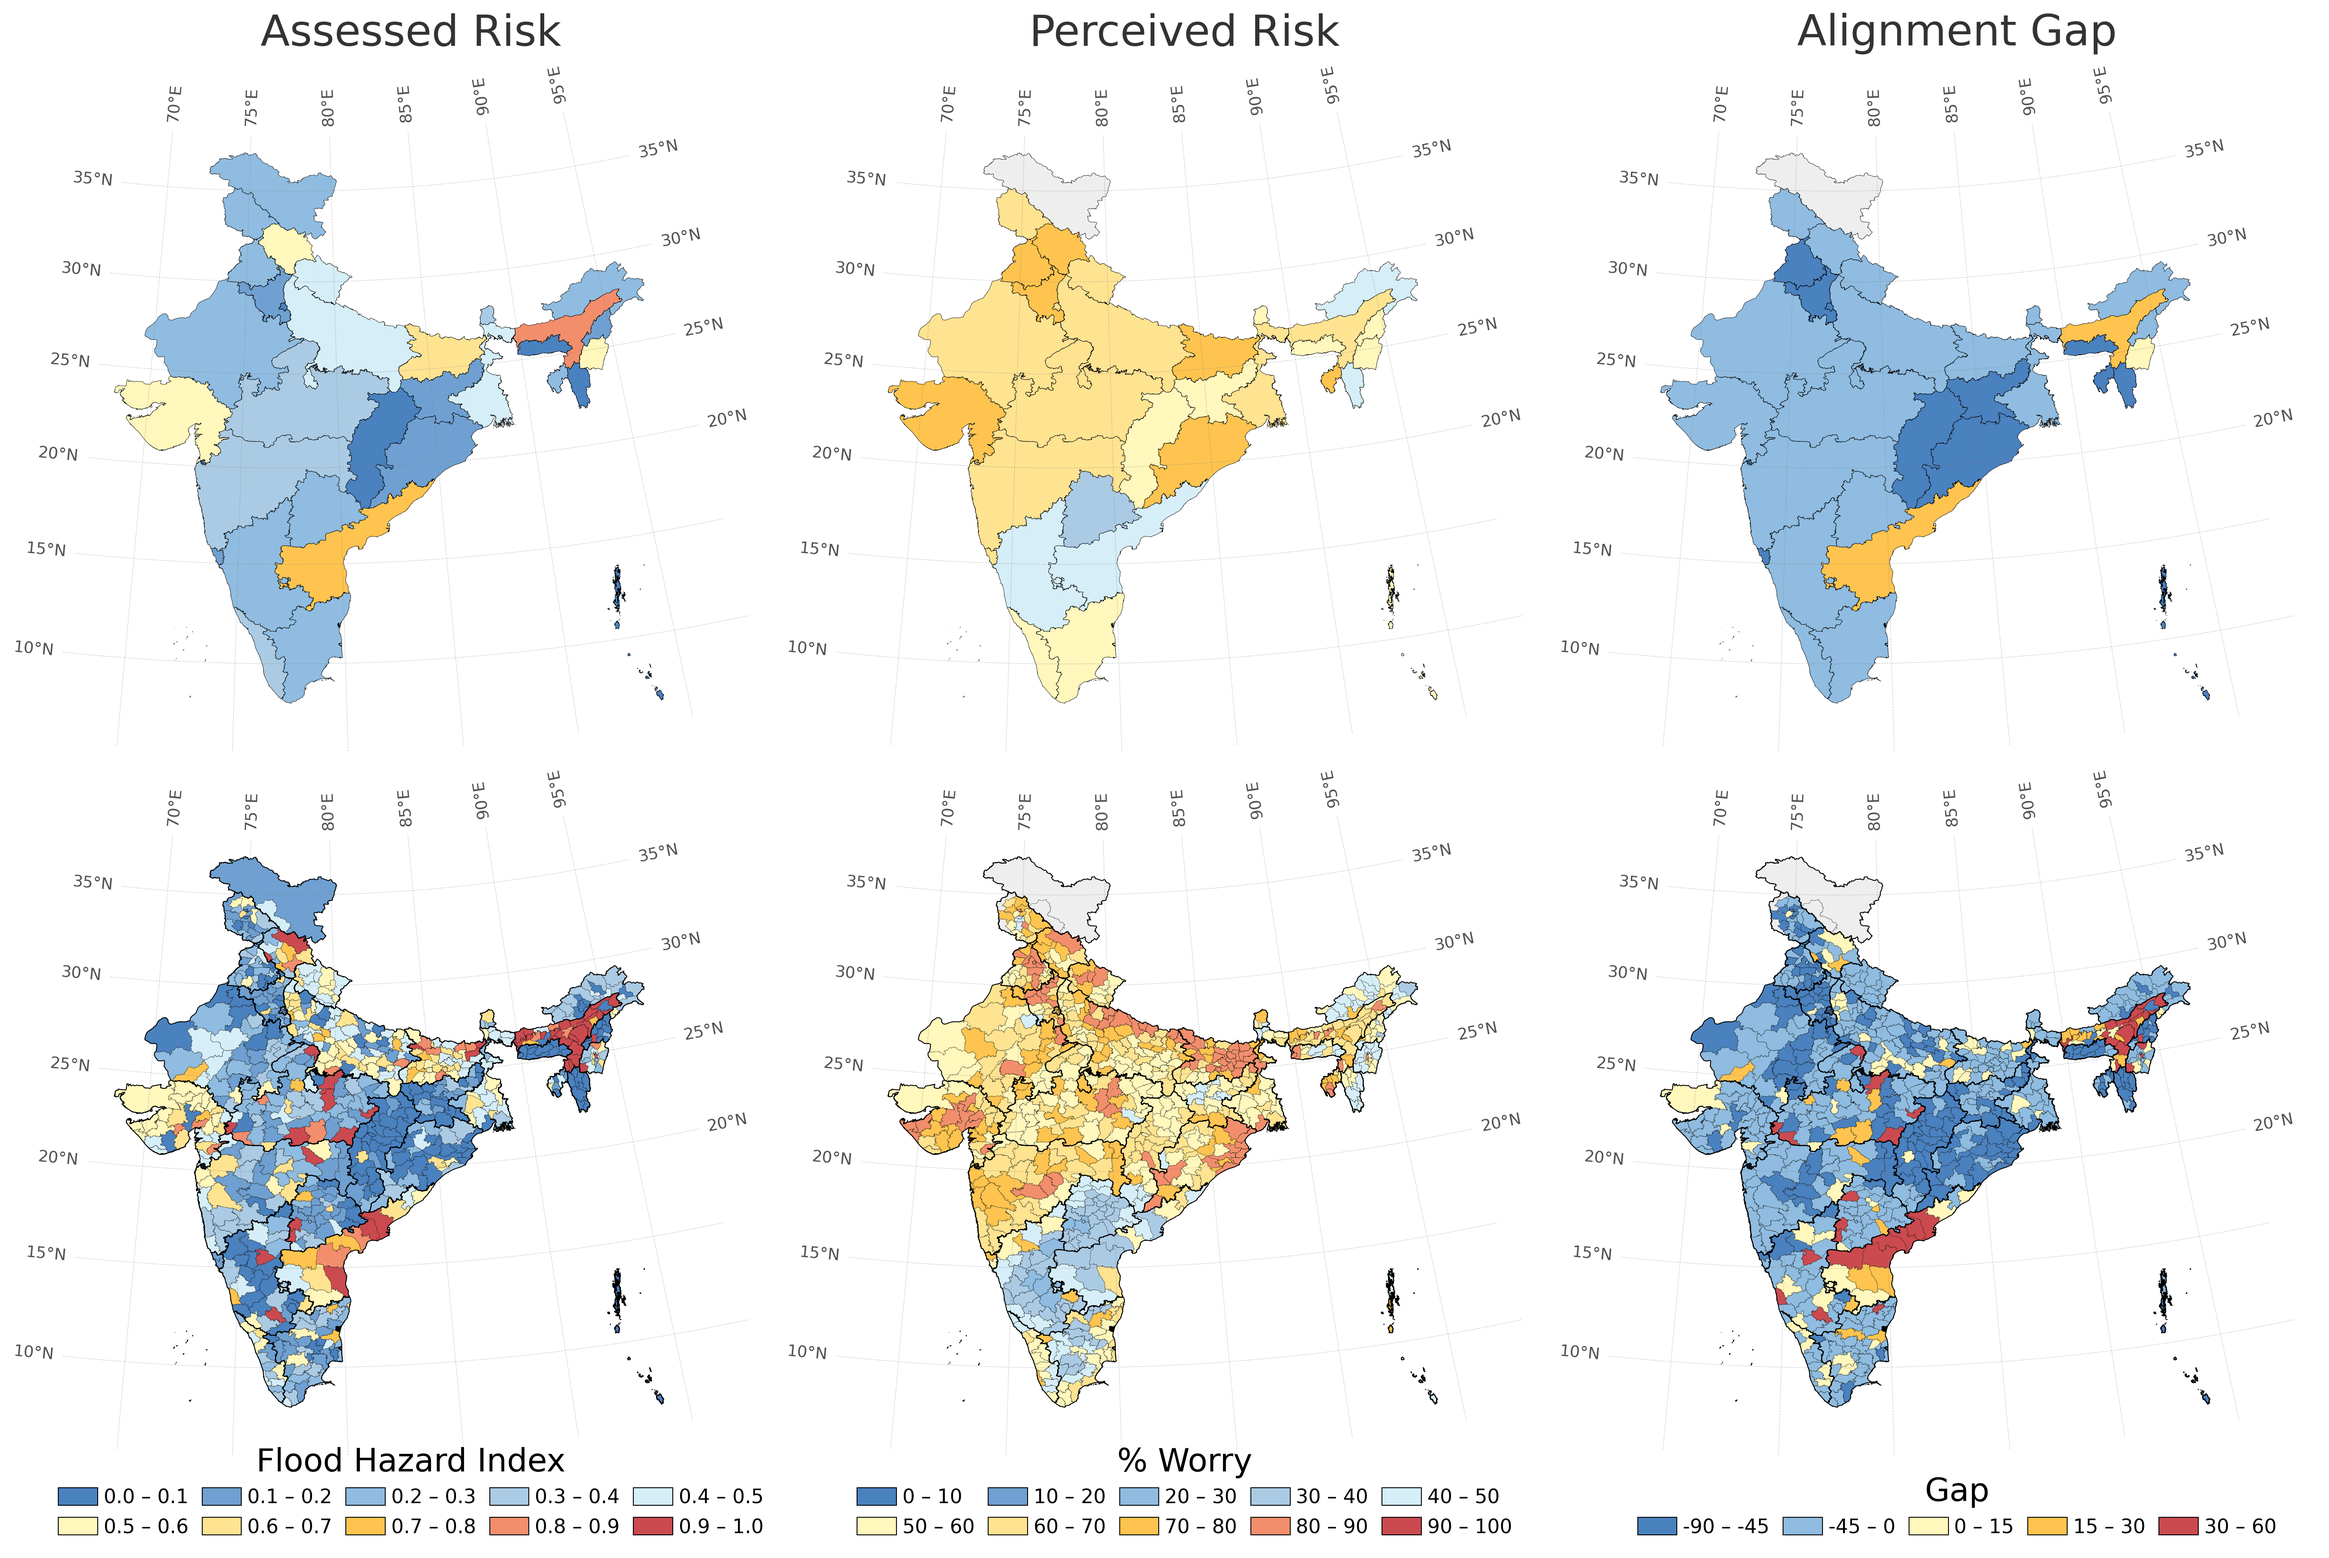
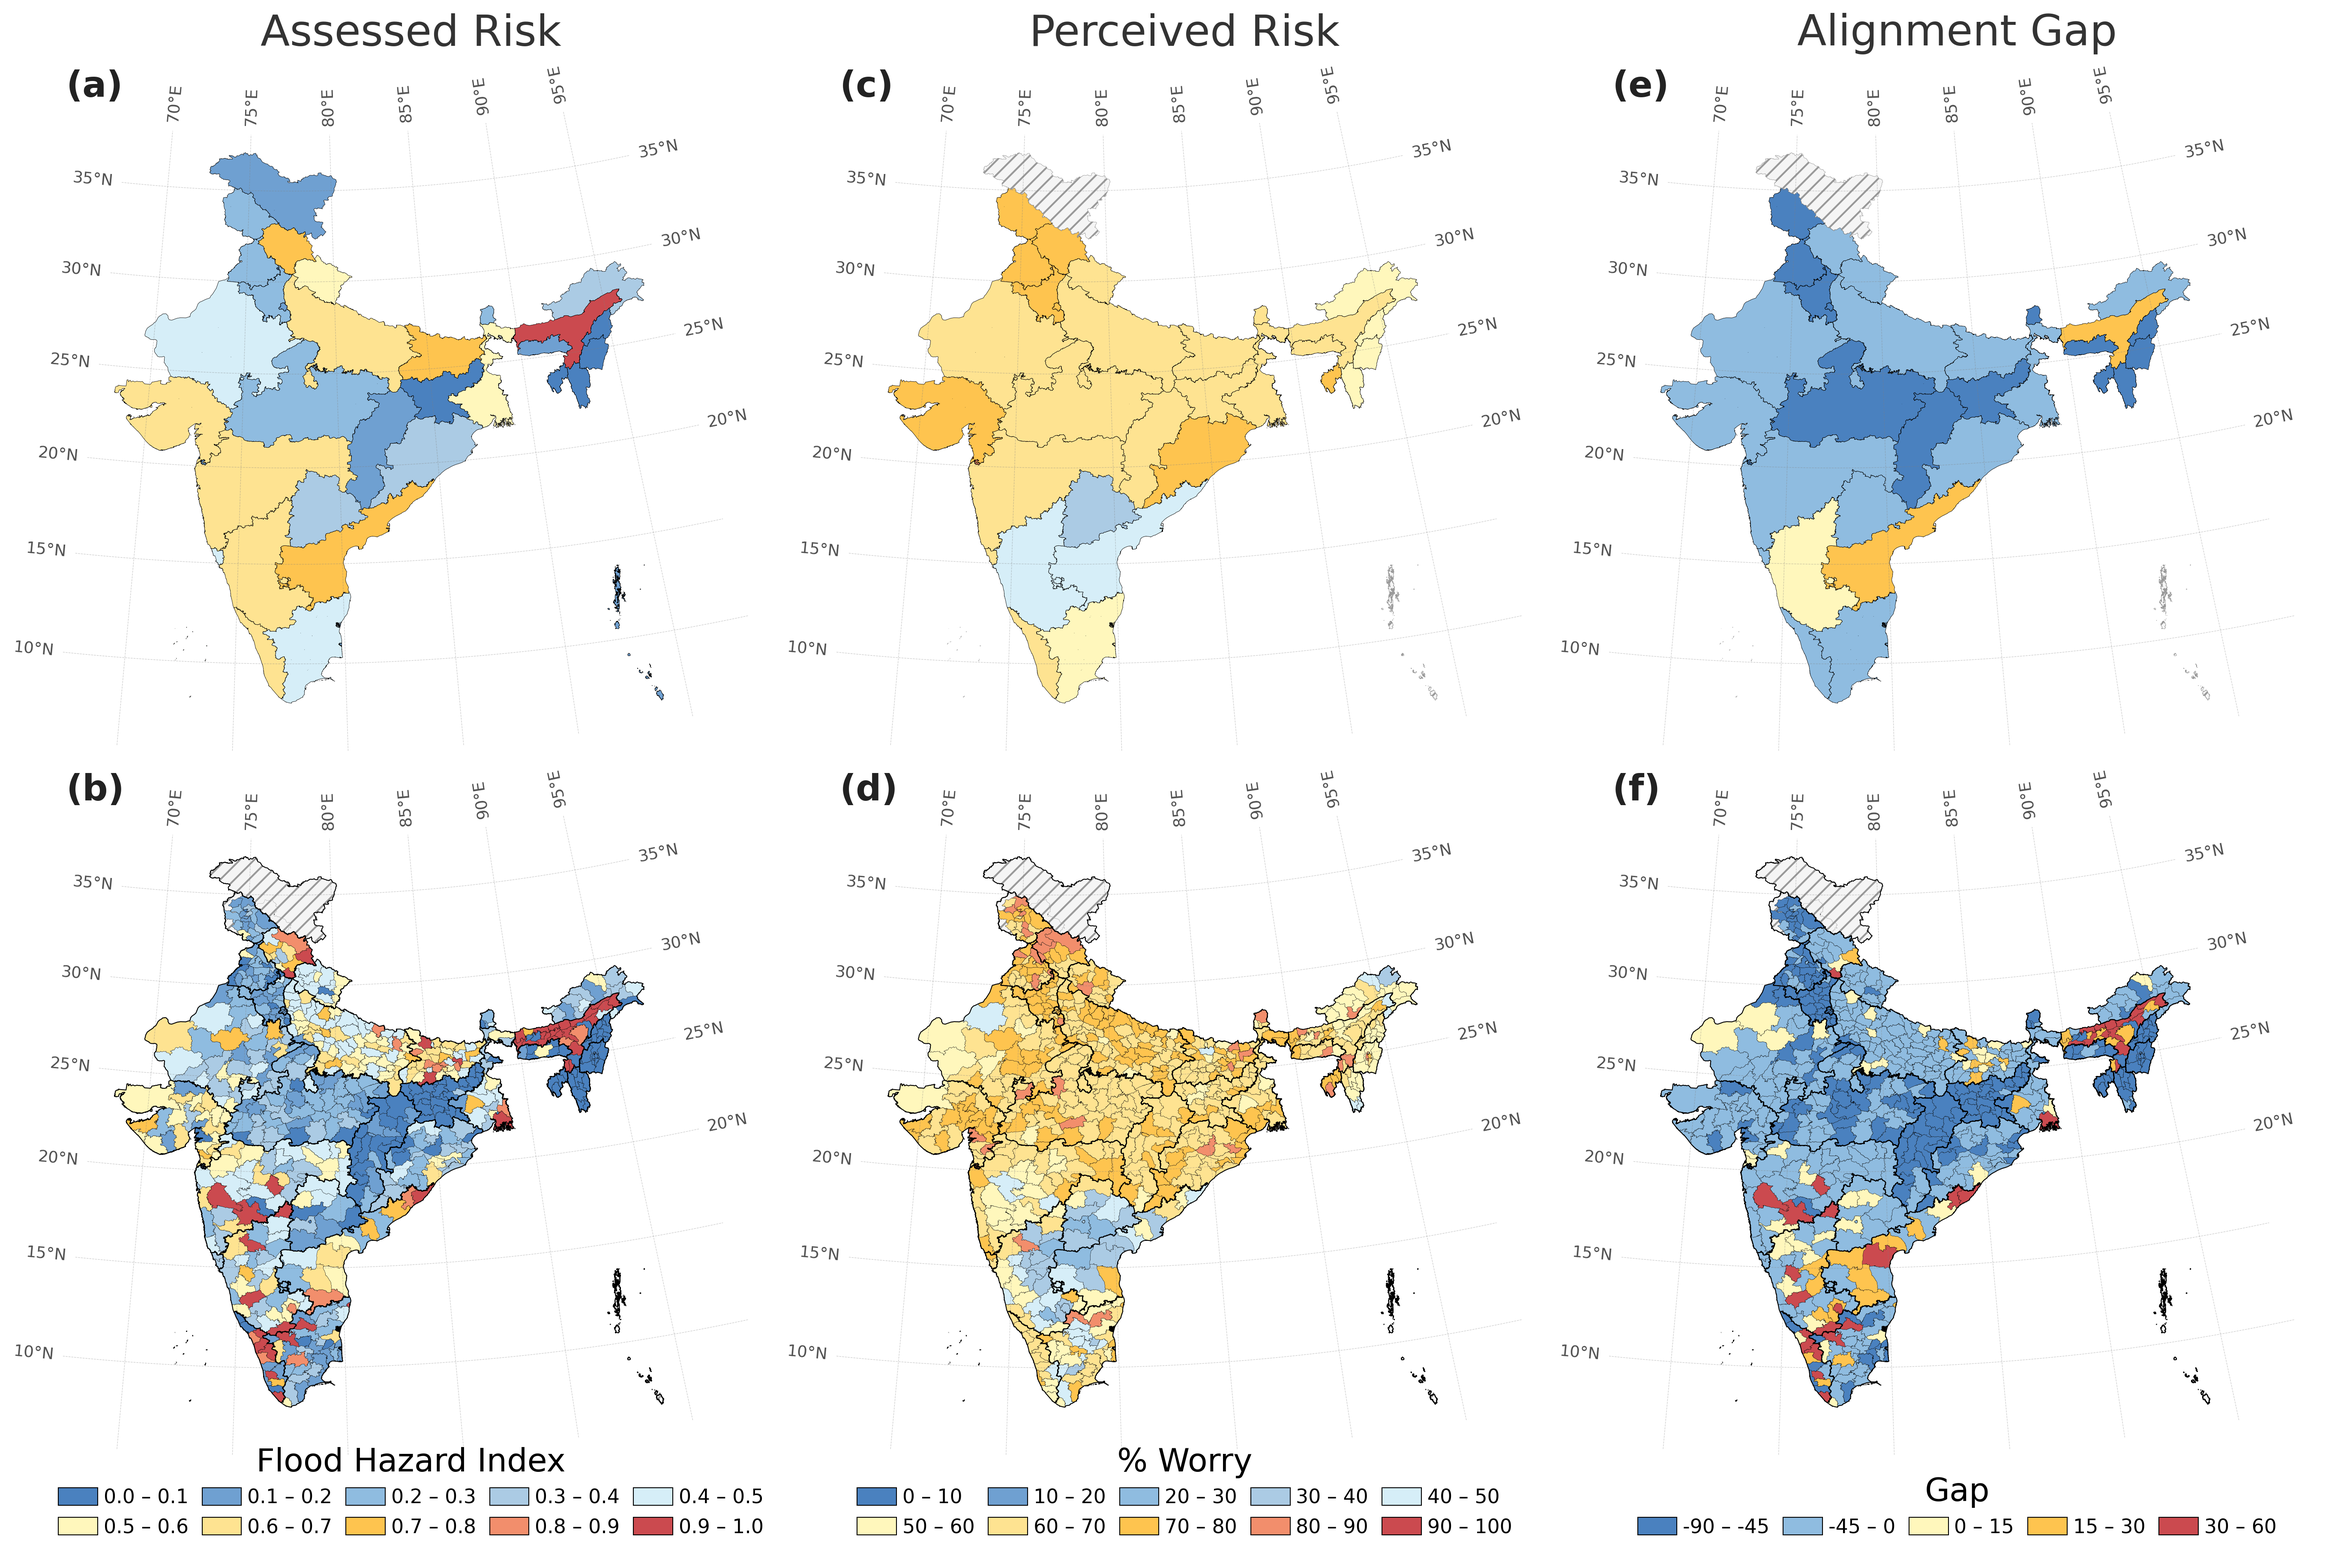
Sync figures with current manuscript/SI; fix contact line format
Replace figures/main and figures/si with the exact set currently
referenced by main.tex and SI.tex, removing stale/unused figures.
Also collapse the contact entry to a single line (name, affiliation,
email).

Claude-Session: https://claude.ai/code/session_016Q6fAAZHwCnpJZ5vwnKKWq

diff --git a/README.md b/README.md
@@ -29,9 +29,7 @@ If you use this code or build on the analysis, please cite the article:
 
 ## Contact
 
-Jennifer Marlon — <jennifer.marlon@yale.edu>
-Yale School of the Environment
-Yale University
+Jennifer Marlon, Yale School of the Environment, Yale University — <jennifer.marlon@yale.edu>
 
 ## Funding
 
